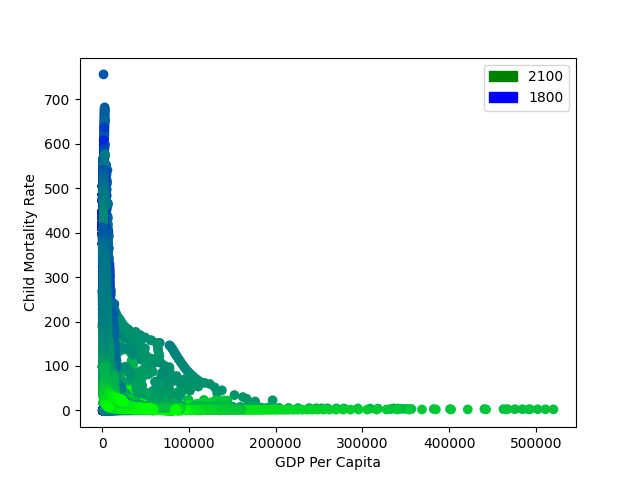
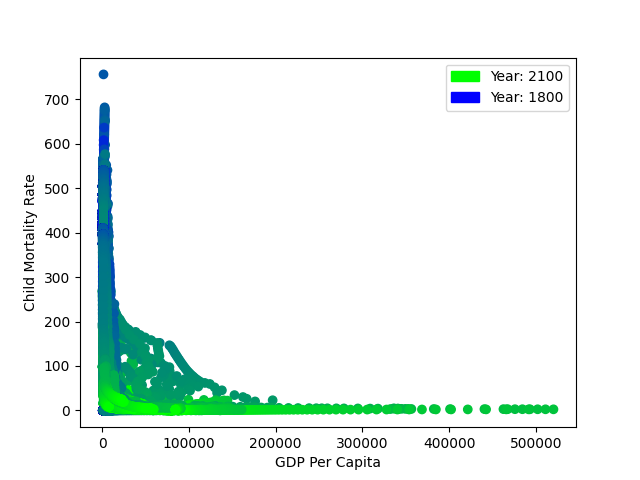
print message

Changed region(s): [[0.6875, 0.125, 0.875, 0.2188]]

diff --git a/workflow/create_visualization.py b/workflow/create_visualization.py
@@ -25,4 +25,5 @@ green_patch = mpatches.Patch(color='#00FF00', label='Year: '+str(max(years)))
 blue_patch = mpatches.Patch(color='#0000FF', label='Year: '+str(min(years)))
 plt.legend(handles=[green_patch, blue_patch], loc='upper right')
 plt.savefig('../paper/figs/figure.png')
+print('Figure Generating')
 plt.show()

diff --git a/workflow/merge.py b/workflow/merge.py
@@ -6,3 +6,5 @@ mortality = pd.read_csv('../data/preprocessed/child-motality.csv')
 data = pd.merge(gdp,mortality, how='outer')
 
 data.to_csv('../data/preprocessed/merge_data.csv')
+
+print(f"Merged CSV written to ../data/preprocessed/merge_data.csv")
